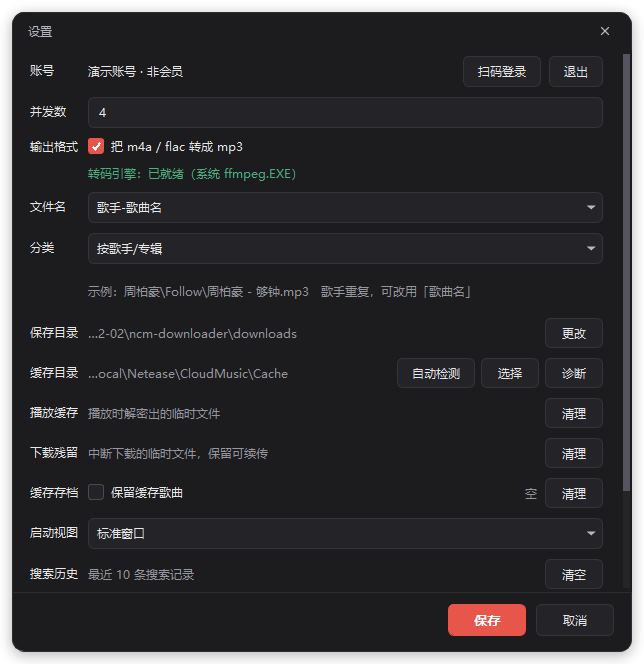
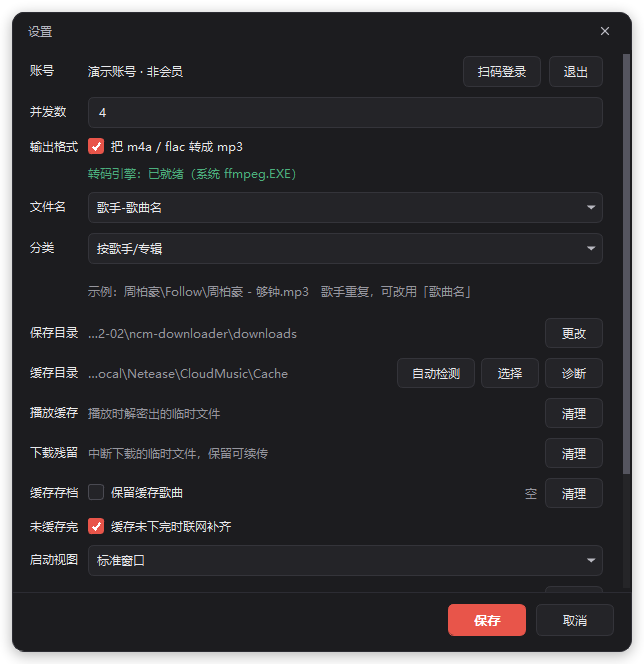
半截缓存改为联网补齐，不再导出残缺文件
- Downloader 新增 partial_fallback：缓存未下完时走网络取完整版
- 关闭补齐则跳过，不产生半截文件
- 设置新增「未缓存完」开关，批量开始时提示数量
- 失败归类单列「缓存未下完」
- 版本 1.2.8

Changed region(s): [[0.0311, 0.7831, 0.3727, 0.8735], [0.9627, 0.6928, 0.9938, 0.753], [0.8696, 0.8434, 0.9317, 0.8735]]

diff --git a/gui/main.py b/gui/main.py
@@ -413,6 +413,21 @@ class SettingsDialog(RoundDialog):
         self.keep_cache.stateChanged.connect(lambda _=0: self._refresh_store_state())
         self._refresh_store_state()
 
+        # 客户端边听边写缓存，没听完的就是半截；导出时得决定拿它怎么办
+        partial_row = QHBoxLayout()
+        partial_row.setSpacing(8)
+        self.partial_fallback = QCheckBox("缓存未下完时联网补齐")
+        self.partial_fallback.setChecked(
+            settings.value("partial_fallback", True, type=bool)
+        )
+        self.partial_fallback.setToolTip(
+            "客户端是边听边缓存的，没听完的歌只有半截。\n"
+            "勾选：导出这些歌时自动联网取完整版（推荐）。\n"
+            "不勾：直接跳过，不会生成半截的文件。"
+        )
+        partial_row.addWidget(self.partial_fallback, 1)
+        form.addRow("未缓存完", partial_row)
+
         self.startup_view = QComboBox()
         self.startup_view.addItem("标准窗口", "full")
         self.startup_view.addItem("紧凑模式", "mini")
@@ -2778,7 +2793,22 @@ class MainWindow(QMainWindow):
             source=source,
             to_mp3=self.to_mp3,
             cache_dir=self.cache_dir,
+            partial_fallback=bool(
+                self.settings.value("partial_fallback", True, type=bool)
+            ),
         )
+
+        # 半截缓存要么联网补齐、要么跳过，先说清楚，免得用户以为歌被吞了
+        partial_count = sum(1 for song in songs if song.id in self._cache_partial)
+        if partial_count:
+            if self.settings.value("partial_fallback", True, type=bool):
+                self.status_label.setText(
+                    f"{partial_count} 首缓存未下完，正在联网补齐完整版"
+                )
+            else:
+                self.status_label.setText(
+                    f"{partial_count} 首缓存未下完，将按设置跳过"
+                )
 
         self._prepare_queue(songs)
         self._batch_songs = list(songs)
@@ -3027,6 +3057,8 @@ class MainWindow(QMainWindow):
                 buckets["磁盘空间不足"] += 1
             elif any(k in text for k in ("超时", "timeout", "connection", "网络", "中断")):
                 buckets["网络问题"] += 1
+            elif "缓存未下完" in text:
+                buckets["缓存未下完"] += 1
             elif "不完整" in text:
                 buckets["下载不完整"] += 1
             else:
@@ -3153,6 +3185,9 @@ class MainWindow(QMainWindow):
             self.to_mp3 = dialog.to_mp3.isChecked()
             self.name_pattern = dialog.name_box.currentData()
             self.folder_pattern = dialog.folder_box.currentData()
+            self.settings.setValue(
+                "partial_fallback", dialog.partial_fallback.isChecked()
+            )
             if dialog.out_dir != self.out_dir:
                 self.out_dir = dialog.out_dir
                 # 索引是按目录存的，换了目录必须换库，否则「已下载」永远查的是老地方

diff --git a/ncm/downloader.py b/ncm/downloader.py
@@ -115,6 +115,7 @@ class Downloader:
         cache_dir: Path | str | None = None,
         to_mp3: bool = False,
         mp3_bitrate: str = "auto",
+        partial_fallback: bool = True,
     ):
         self.backend = backend
         self.store = store
@@ -126,6 +127,8 @@ class Downloader:
         self.with_lyric = with_lyric
         self.force = force
         self.source = source if source in SOURCES else "auto"
+        # 缓存只写了一半时怎么办：True=联网取完整版，False=跳过（不产生半截文件）
+        self.partial_fallback = partial_fallback
         self.to_mp3 = to_mp3
         self.mp3_bitrate = mp3_bitrate
         self._printed = threading.Lock()
@@ -237,11 +240,23 @@ class Downloader:
                 quality="", message="记录已存在",
             )
 
+        partial = False
         if self.source in ("auto", "cache"):
             entry = self._cache.get(song.id)
             if entry is not None:
-                return self._from_cache(song, entry)
-            if self.source == "cache":
+                if entry.complete:
+                    return self._from_cache(song, entry)
+                # 缓存只写了一半（客户端边听边写，没听完就是半截）。
+                # 直接导出会得到一首残缺的歌，所以默认联网取完整版；
+                # 明确关掉联网补齐时宁可跳过，也不产出半截文件。
+                if self.source == "cache" and not self.partial_fallback:
+                    return TaskResult(
+                        song,
+                        CACHE_MISS,
+                        message="缓存未下完，已跳过（未开启联网补齐）",
+                    )
+                partial = True
+            elif self.source == "cache":
                 return TaskResult(song, CACHE_MISS, message="本地缓存里没有这首")
 
         resolved = self._resolve(song)
@@ -283,9 +298,9 @@ class Downloader:
 
         os.replace(part, target)
 
-        note = ""
+        note = "（缓存未完整，已联网补齐）" if partial else ""
         if src.degraded:
-            note = f"（请求 {self.level}，实得 {src.br // 1000}k）"
+            note += f"（请求 {self.level}，实得 {src.br // 1000}k）"
         target, extra = self._maybe_transcode(target)
         note += extra
         if self.with_lyric or self.with_cover:

diff --git a/ncm/__init__.py b/ncm/__init__.py
@@ -1,7 +1,7 @@
 """网易云音乐下载工具核心包。"""
 from __future__ import annotations
 
-__version__ = "1.2.7"
+__version__ = "1.2.8"
 
 from .backend import Backend, BackendError, LocalBackend
 from .models import AudioSource, Playlist, Song

diff --git a/CHANGELOG.md b/CHANGELOG.md
@@ -1,5 +1,16 @@
 # 版本记录
 
+## v1.2.8 — 2026-11-05
+
+### 修复
+
+- **半截缓存被当成完整歌曲导出**：客户端边听边写缓存，没听完的歌只有半截 `.uc`，
+  旧逻辑照样解密落盘，得到的是一首残缺的歌，文件名却和正常文件一样。
+  现在默认联网取完整版，结果里标注「缓存未完整，已联网补齐」。
+- 设置里新增「未缓存完 · 缓存未下完时联网补齐」（默认开启）。关掉后这些歌会被跳过，
+  不生成半截文件，失败原因汇总里单列「缓存未下完」。
+- 批量开始时状态栏先说明有几首未下完，避免以为歌被吞了。
+
 ## v1.2.7 — 2026-11-05
 
 ### 修复
